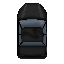
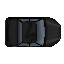
Fix collisons
Rotated the car png to face the right way when loading the image and made the car mask rectangle correspond with the actual car rect (radians in movement function are calculated for the car facing right)

diff --git a/car.py b/car.py
@@ -14,8 +14,9 @@ ACCELERATION = 0.1
 class Car:
     def __init__(self):
         self.img = CAR
+        self.mask = CAR_MASK
         self.x, self.y = CAR_START_POS
-        self.angle = 270
+        self.angle = 0
         self.vel = 0
         self.max_vel = MAX_VELOCITY
         self.rotation_vel = ROTATION_VELOCITY
@@ -39,7 +40,7 @@ class Car:
         self.move()
 
     def move(self):
-        radians = math.radians(self.angle)
+        radians = math.radians(self.angle + 270)
         vertical = math.cos(radians) * self.vel
         horizontal = math.sin(radians) * self.vel
 
@@ -52,8 +53,7 @@ class Car:
 
     def collide(self, mask, x=0, y=0):
         offset = (int(self.x - x), int(self.y - y))
-        intersection_point = mask.overlap(CAR_MASK, offset)
-        # print(intersection_point)
+        intersection_point = mask.overlap(self.mask, offset)
         return intersection_point
     
     def hit_wall(self):

diff --git a/main.py b/main.py
@@ -60,6 +60,9 @@ while running:
     move(car, keys)
 
     if car.collide(TRACK_BORDER_MASK) != None:
+        pygame.draw.circle(WIN, (255, 0, 0), car.collide(TRACK_BORDER_MASK), 4)
+        pygame.display.update()
+
         if car.vel == 0:    # if stuck, force the car the other way
             unstuck(car, keys)
         else:
